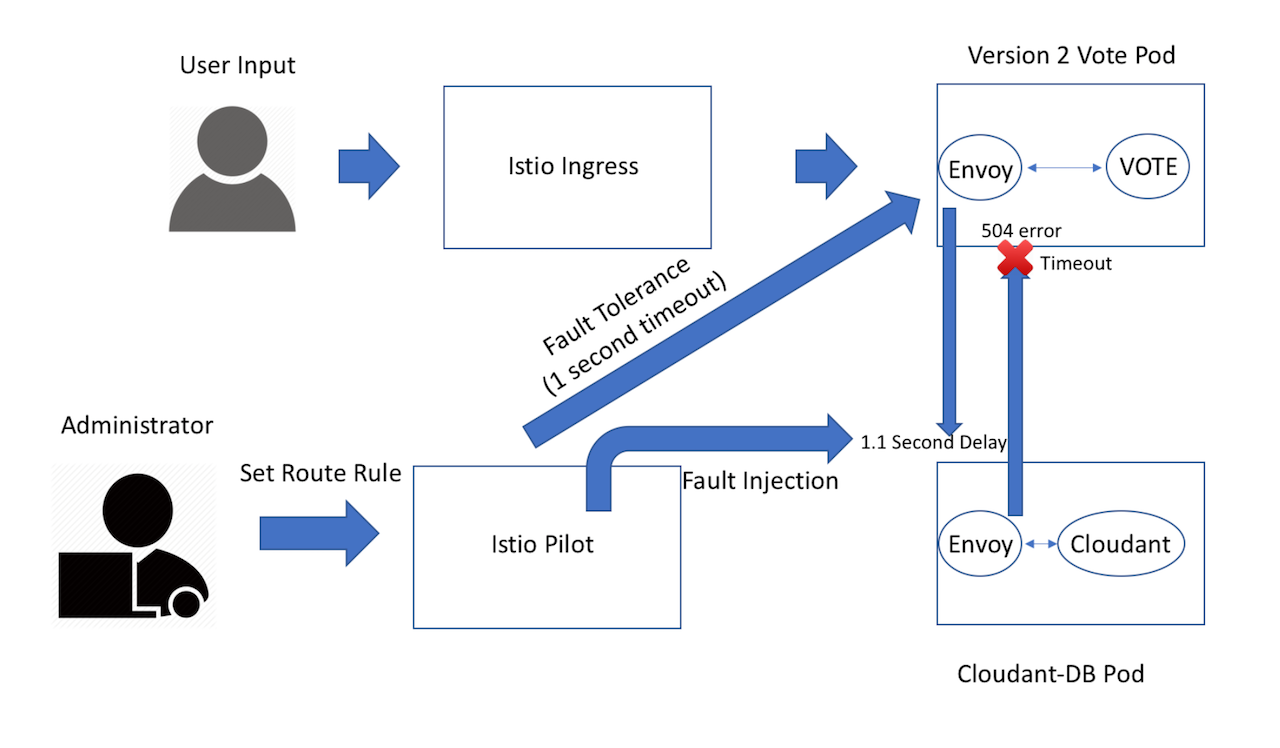
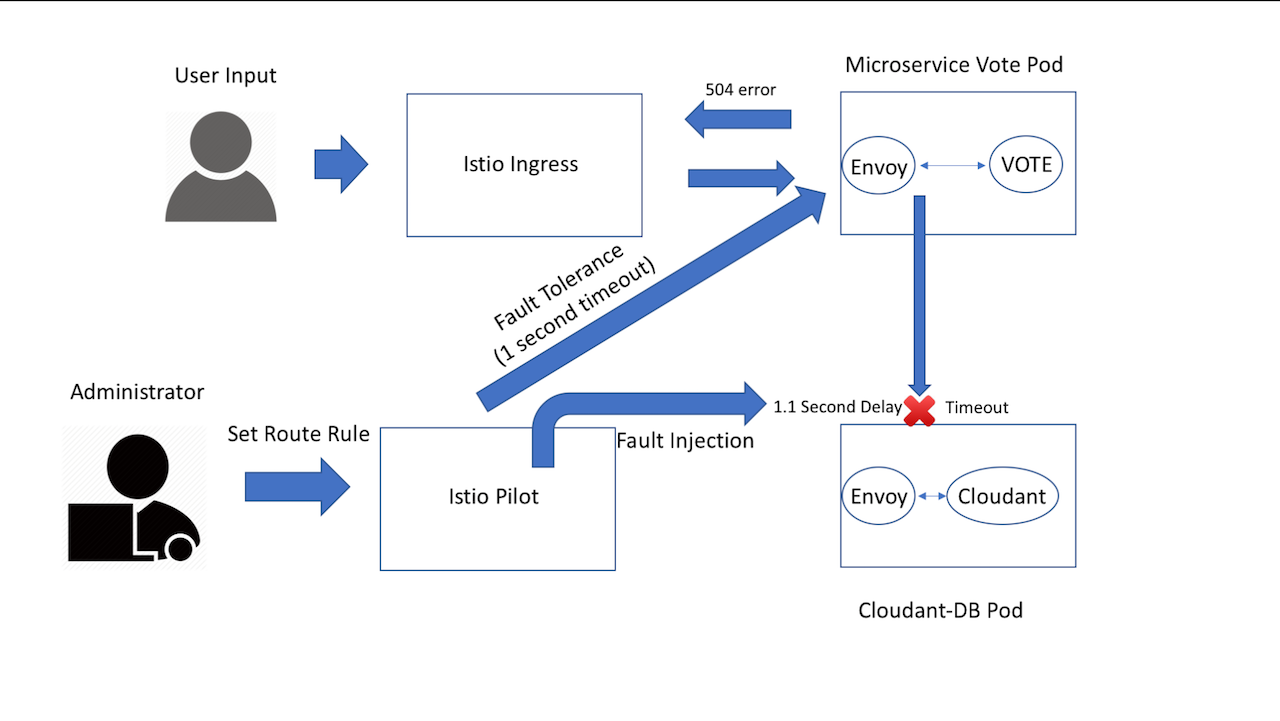
update diagram

diff --git a/yaml_modification.md b/yaml_modification.md
@@ -12,7 +12,7 @@ Since the original MicroProfile example is built on top of the Fabric (an extra 
 
 In addition, we added some lables and changed the image names, so users can use their own images and manage all the deployments using the app tag. We also added the target port so the service discovery can do less work and deploy the application much faster. 
 
-Moreover, within the original *deploy-vote.yaml*, there are secret creation job, cloudant deployment, and vote deployment. The secret creation job doesn't need to have an Envoy sidecar, and the cloudant database needs to access some external network. Thus, we break down the *deploy-vote.yaml* in the vote microservice to *deploy-job.yaml*, *deploy-cloudant.yaml*, and *deploy-vote.yaml* in order to inject the Envoy sidecars differently. Also, since we have 2 version of vote microservice, we added an extra deployment v2 in *deploy-vote.yaml*.
+Moreover, within the original *deploy-vote.yaml*, there are secret creation job, cloudant deployment, and vote deployment. The secret creation job doesn't need to have an Envoy sidecar, and the cloudant database needs to access some external network. Thus, we break down the *deploy-vote.yaml* in the vote microservice to *deploy-job.yaml*, *deploy-cloudant.yaml*, and *deploy-vote.yaml* in order to inject the Envoy sidecars differently. 
 
 Lastly, since we will use the Istio ingress for our endpoints, we created the `ingress.yaml` to replace all the xxx-ingress.yaml file in each microservice.
 
